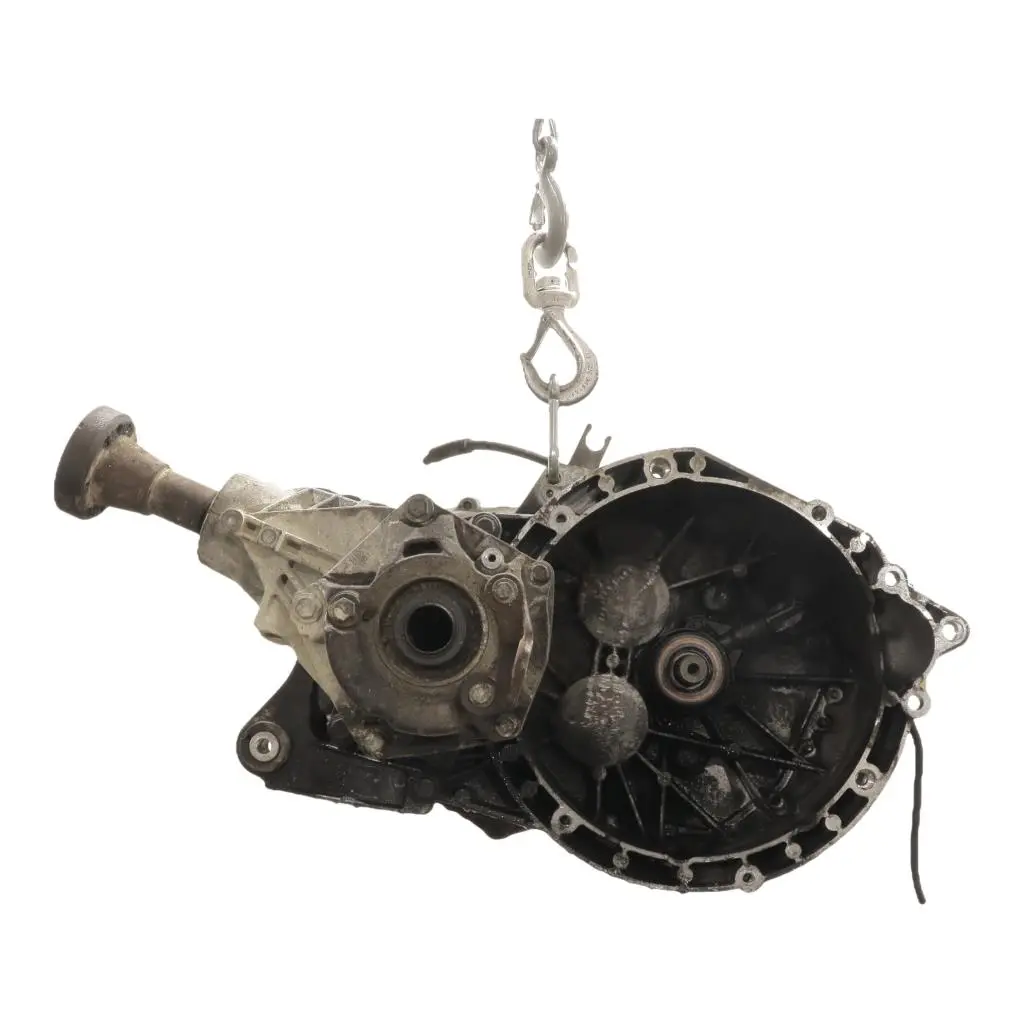
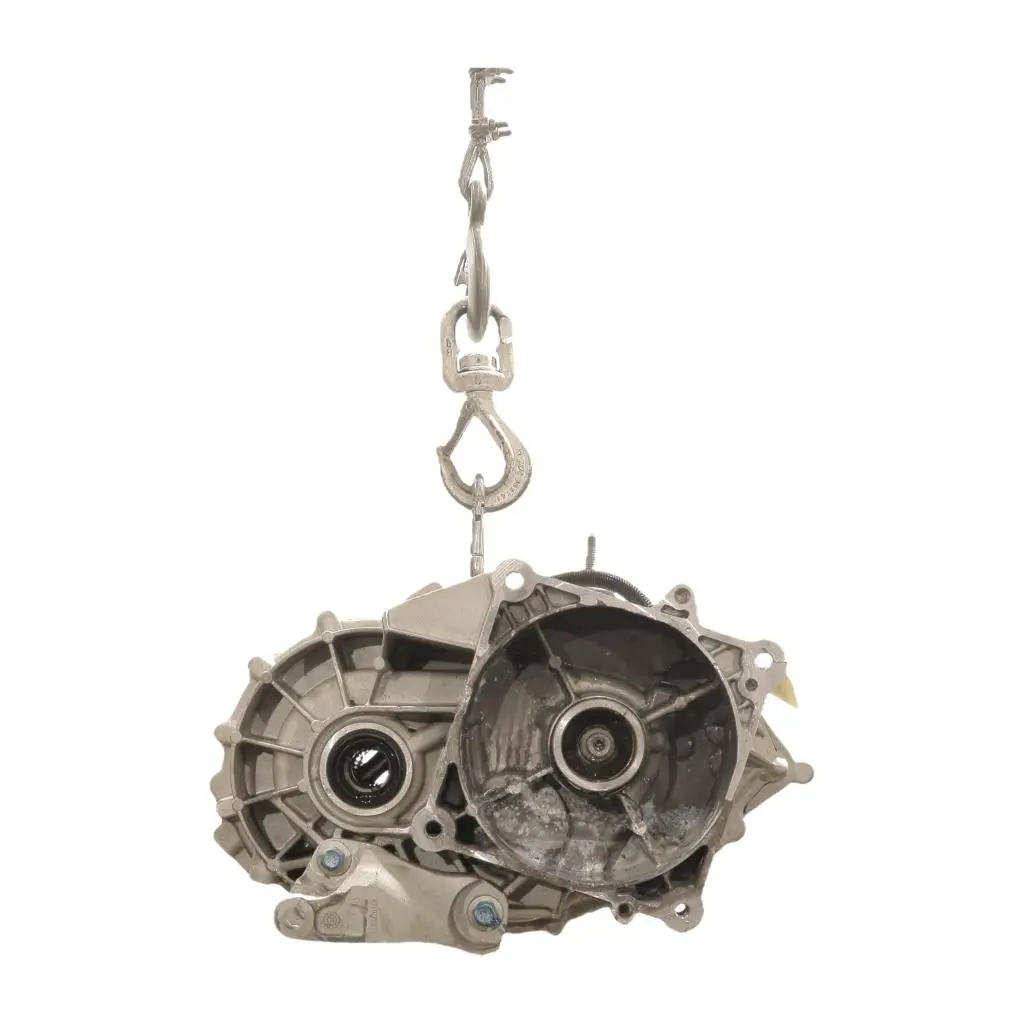
Accueil : nouvelles photos des catégories choisies par Sophie
Carrosserie intérieure, carrosserie extérieure, petite et grosse mécanique, jantes.

Changed region(s): [[0.0312, 0.0625, 0.9688, 0.9375]]

diff --git a/src/lib/placeholders.ts b/src/lib/placeholders.ts
@@ -1,7 +1,9 @@
 import { photos } from "@/lib/photos";
 import coverGrosseMecanique from "@/assets/photos/categories/grosse-mecanique.webp";
-import coverInterieure from "@/assets/photos/categories/carrosserie-interieure.jpg";
-import coverExterieure from "@/assets/photos/categories/carrosserie-exterieure.jpg";
+import coverPetiteMecanique from "@/assets/photos/categories/petite-mecanique.webp";
+import coverInterieure from "@/assets/photos/categories/carrosserie-interieure.webp";
+import coverExterieure from "@/assets/photos/categories/carrosserie-exterieure.webp";
+import coverJantes from "@/assets/photos/categories/jantes.jpg";
 
 /**
  * Données provisoires affichées tant que la base locale n'est pas
@@ -45,14 +47,16 @@ export const PLACEHOLDER_CATEGORIES = [
 export const CATEGORY_FALLBACK = { photo: photos.aisle, icon: "mecanique" } as const;
 
 /**
- * Couvertures imposées pour certaines familles sur l'accueil (choix de
- * Mattéo, sept. 2026). Les autres familles prennent une photo de pièce du
- * stock, puis la photo locale de repli.
+ * Couvertures des familles sur l'accueil : photos studio choisies par
+ * Sophie (oct. 2026). Les familles absentes de cette liste prennent une
+ * photo de pièce du stock, puis la photo locale de repli.
  */
 export const CATEGORY_COVERS: Record<string, (typeof photos)[keyof typeof photos]> = {
   "grosse-mecanique": coverGrosseMecanique,
+  "petite-mecanique": coverPetiteMecanique,
   "carrosserie-interieure-et-divers": coverInterieure,
   "carrosserie-exterieure": coverExterieure,
+  jantes: coverJantes,
 };
 
 /** Photo et pictogramme d'une catégorie, d'après son adresse. */
